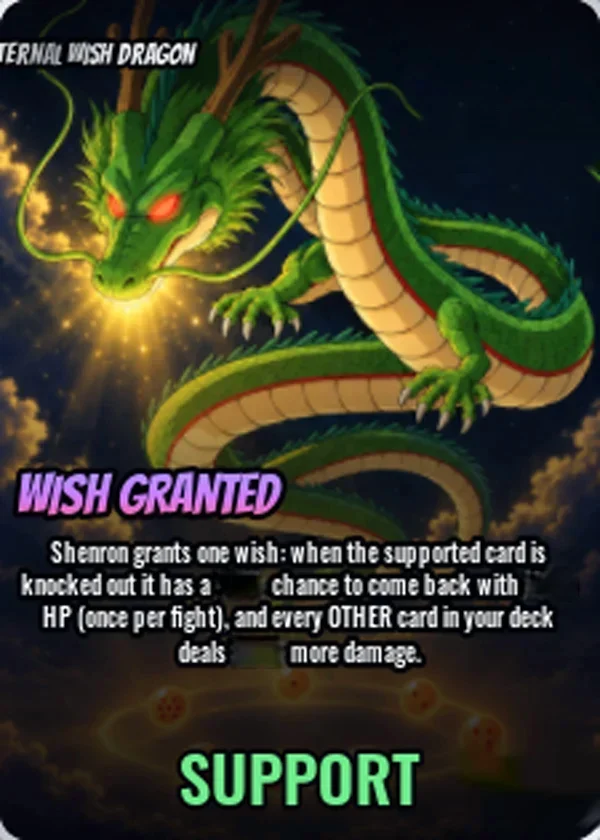
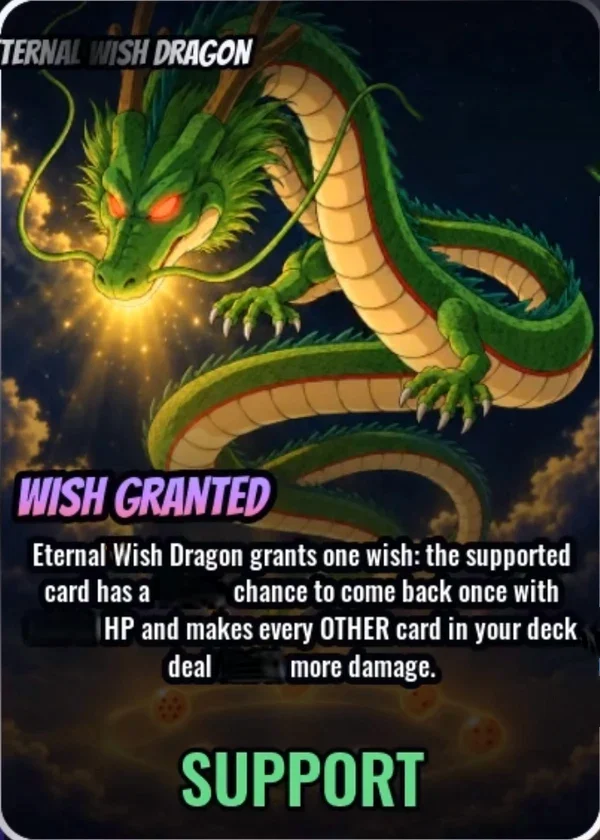
Support: game soft cap + sharp pictures for Hellsing Commander / Eternal Wish Dragon (?v=39)
- Recaptured both supports from the owner's full-card-view screenshots (~684px wide vs ~225px):
  new tools/recapture.py crops inside the frame, undoes the view's x1.14 stretch, removes the
  rarity pill / tap circle / sparkle stars (filled from other rarity shots or the old picture)
- Ability text updated to the game's current wording; support_nums.py re-found the numbers
- Values: the game softens high values (knee + room x (1 - e^(-(v - knee)/room)));
  chance 75/25, other 150/75, revive HP still capped at 100. Matches every in-game number:
  Hellsing 84/101/117/134/151/166/177/187, Eternal Secret 89.3, Chainsaw Pup Devil Cosmic 95.7
- Hellsing Normal 67 + effect.dp 0 (game shows whole numbers); Chainsaw Pup Devil back to 53

Claude-Session: https://claude.ai/code/session_01WmZ8X2XQiD1mRoJKfXMZgn

diff --git a/js/app.js b/js/app.js
@@ -105,10 +105,29 @@
     return (r > 200 || (r === 200 && q % 2) ? q + 1 : q) / 10;
   }
   const supVals = (s) => (s && s.effect && typeof s.effect === "object" && Array.isArray(s.effect.vals) ? s.effect.vals : []);
-  /* Tops out at 100% (owner 2026-10-29): a chance ("{n}% chance", "{n}% of (the) hits": dodges, counters) and the HP a card
-     comes back with ("with {n}% HP": revives · more than full HP does nothing) */
-  const supCapped = (s, i) => new RegExp(`\\{${i}\\}% (chance|of (the )?hits|HP\\b)`).test((s && s.effect && s.effect.desc) || "");
-  const supValAt = (s, i, rarity) => { const v = supAt(supVals(s)[i], rarity); return supCapped(s, i) ? Math.min(100, v) : v; };
+  /* Soft cap (the game, measured 2026-10-29 · PROGRESS §5.4): past a knee the game gives only part of the rest, closing in on
+     a ceiling: knee + room × (1 − e^(−(value − knee) / room)) on the unrounded value
+     · a chance ("{n}% chance", "{n}% of (the) hits": dodges, counters, revives): knee 75, room 25 → never 100
+       (Eternal Wish Dragon Secret 89.3 · Chainsaw Pup Devil Cosmic 95.7)
+     · the HP a card comes back with ("with {n}% HP"): straight, tops out at 100% (more than full HP does nothing)
+     · anything else: knee 150, room 75 (Hellsing Commander Ascended 166 · Godlike 177 · Godly 187)
+     effect.dp = decimals the game shows for that card (default 1 · Hellsing Commander 0: 84 / 101 / 117 …) */
+  const SOFT = { chance: [75, 25], other: [150, 75] };
+  const supKind = (s, i) => {
+    const d = (s && s.effect && s.effect.desc) || "";
+    return new RegExp(`\\{${i}\\}% (chance|of (the )?hits)`).test(d) ? "chance" : new RegExp(`\\{${i}\\}% HP\\b`).test(d) ? "hp" : "other";
+  };
+  const supValAt = (s, i, rarity) => {
+    const base = supVals(s)[i], k = supKind(s, i), dp = s && s.effect && s.effect.dp === 0 ? 0 : 1;
+    let v = Number(base) * supLevelMult(rarity);
+    if (!Number.isFinite(v) || v <= 0) return 0;
+    const plain = dp ? supAt(base, rarity) : Math.round(v);       // tenths: the game's even rounding of an exact …5
+    if (k === "hp") return Math.min(100, plain);
+    if (v <= SOFT[k][0]) return plain;
+    const [t, c] = SOFT[k];
+    v = t + c * (1 - Math.exp(-(v - t) / c));
+    return dp ? Math.round(v * 10) / 10 : Math.round(v);
+  };
   const supValue = (s, rarity) => supValAt(s, 0, rarity);  // the main value (vals[0]) at a rarity · 0 = none
   const supText = (s, text, rarity) => String(text || "").replace(/\{(\d)\}/g, (m, i) => (supVals(s)[+i] == null ? m : String(supValAt(s, +i, rarity))));
   const isSupport = (x) => !!(x && x.kind === "support");   // support objects get kind "support" when the data loads (boot)

diff --git a/index.html b/index.html
@@ -74,17 +74,17 @@
       fit(); addEventListener("resize", fit);
     })();
   </script>
-  <link rel="stylesheet" href="css/tokens.css?v=38">
-  <link rel="stylesheet" href="css/base.css?v=38">
-  <link rel="stylesheet" href="css/fx.css?v=38">
-  <link rel="stylesheet" href="css/cards.css?v=38">
-  <link rel="stylesheet" href="css/tier.css?v=38">
-  <link rel="stylesheet" href="css/deck.css?v=38">
-  <link rel="stylesheet" href="css/support.css?v=38">
-  <link rel="stylesheet" href="css/grade.css?v=38">
-  <link rel="stylesheet" href="css/tiermaker.css?v=38">
-  <link rel="stylesheet" href="css/detail.css?v=38">
-  <link rel="stylesheet" href="css/traits.css?v=38">
+  <link rel="stylesheet" href="css/tokens.css?v=39">
+  <link rel="stylesheet" href="css/base.css?v=39">
+  <link rel="stylesheet" href="css/fx.css?v=39">
+  <link rel="stylesheet" href="css/cards.css?v=39">
+  <link rel="stylesheet" href="css/tier.css?v=39">
+  <link rel="stylesheet" href="css/deck.css?v=39">
+  <link rel="stylesheet" href="css/support.css?v=39">
+  <link rel="stylesheet" href="css/grade.css?v=39">
+  <link rel="stylesheet" href="css/tiermaker.css?v=39">
+  <link rel="stylesheet" href="css/detail.css?v=39">
+  <link rel="stylesheet" href="css/traits.css?v=39">
 </head>
 <body>
   <!-- Icons, crest and ornaments: drawn for this site (no game art), used with <use href="#…"> -->
@@ -800,19 +800,19 @@
     </section>
   </div>
 
-  <script src="js/fx.js?v=38"></script>
-  <script src="js/app.js?v=38"></script>
-  <script src="js/teamscore.js?v=38"></script>
-  <script src="js/share.js?v=38"></script>
-  <script src="js/cards.js?v=38"></script>
-  <script src="js/detail.js?v=38"></script>
-  <script src="js/tier.js?v=38"></script>
-  <script src="js/deck.js?v=38"></script>
-  <script src="js/support.js?v=38"></script>
-  <script src="js/grade.js?v=38"></script>
-  <script src="js/traits.js?v=38"></script>
-  <script src="js/tiermaker.js?v=38"></script>
-  <script src="js/music.js?v=38"></script>
+  <script src="js/fx.js?v=39"></script>
+  <script src="js/app.js?v=39"></script>
+  <script src="js/teamscore.js?v=39"></script>
+  <script src="js/share.js?v=39"></script>
+  <script src="js/cards.js?v=39"></script>
+  <script src="js/detail.js?v=39"></script>
+  <script src="js/tier.js?v=39"></script>
+  <script src="js/deck.js?v=39"></script>
+  <script src="js/support.js?v=39"></script>
+  <script src="js/grade.js?v=39"></script>
+  <script src="js/traits.js?v=39"></script>
+  <script src="js/tiermaker.js?v=39"></script>
+  <script src="js/music.js?v=39"></script>
 </body>
 </html>
 

diff --git a/tools/recapture.py b/tools/recapture.py
@@ -1,0 +1,164 @@
+#!/usr/bin/env python3
+"""Recapture (PROGRESS §7 "โหมดแคปใหม่"): turn the owner's sharp screenshots of the game's full-screen card view
+into the 600×840 picture the web uses (images/support/<id>.webp + thumb/), with the game's overlays removed.
+
+layout "full" = phone screenshot 2400×1080 of the card opened full-screen (calibrated 2026-10-29 on Hellsing Commander
+7 rarities + Eternal Wish Dragon Secret):
+  · inner picture (inside the rarity frame) x 744–1428 · y 121–959 · the game stretches the card ×1.14 wide in this
+    view, so it is resized back to 600×840 (same geometry as the old Index pictures · SIFT check: x ×1.141 y ×0.998)
+  · rarity pill (SHINY … GODLY) top-right: y 222–305, right end at the frame, left end found by its ring + black stroke
+  · Android "show taps" blue circle (x ≥ 1395) → masked by colour
+  · gold sparkle stars of the game's effect → --star x0,y0,x1,y1 (screenshot px · yellow pixels inside the box)
+    · a star's grey glow on the dark text shadow → --patch x0,y0,x1,y1 (whole box painted the shadow's colour ·
+      keep it off the letters)
+Masked pixels are filled from the other screenshots of the same card (other rarities: same art, pill of a different
+width, stars elsewhere) and what no screenshot shows is inpainted (cv2.xphoto FSR_FAST). The name is coloured by
+rarity in the game → give the white-name shot first (Secret / Ascended / Godlike) · it is the base.
+A glyph of the game's text under a star: --mirror x0,y0,x1,y1 (its box in the base shot · W M A V … only) copies the
+mirror of its right half onto its left half. Overlay spots above the description block that no
+shot shows can come from the old picture (same geometry · --old <copy of the old .webp>) instead of a smeared inpaint.
+The {n}% numbers are NOT removed here: update effect.desc, then run tools/support_nums.py <id> --redo.
+
+needs: pip install opencv-contrib-python-headless
+usage: python3 tools/recapture.py <id> <base.jpg> [other.jpg …] [--star x0,y0,x1,y1 …] [--patch …] [--mirror x0,y0,x1,y1]
+                                   [--old old.webp] [--sheet out.png] [--dry]
+  --star / --patch boxes are for the base shot; add @N to give them to another shot (N = 1 for the first other shot)
+"""
+import os, sys
+import numpy as np
+from PIL import Image, ImageDraw
+
+ROOT = os.path.dirname(os.path.dirname(os.path.abspath(__file__)))
+W, H = 600, 840
+SHOT = (2400, 1080)
+INNER = (744, 121, 1428, 959)            # x0 y0 x1 y1 (exclusive) of the picture inside the frame
+PILL_Y, PILL_R, PILL_X1 = 263.5, 41.5, 1430
+
+
+def pill_left(L):
+    """left end of the rarity pill: the radius where the ring is bright just inside a dark stroke, along the left cap"""
+    th = np.linspace(np.pi / 2 + 0.25, 1.5 * np.pi - 0.25, 40)
+    def cap(e, rr):
+        xs, ys = e + PILL_R + rr * np.cos(th), PILL_Y - rr * np.sin(th)
+        return L[ys.round().astype(int), xs.round().astype(int)].mean()
+    best = max(((max(cap(e, PILL_R - d) for d in range(5, 16)) - min(cap(e, PILL_R - d) for d in range(4)), e)
+                for e in range(1080, 1280)))
+    if best[0] < 50:
+        raise SystemExit("rarity pill not found (score %.0f) · is this the full-card view at 2400×1080?" % best[0])
+    return best[1]
+
+
+def shot_mask(a, stars, patches=()):
+    """True = game overlay (pill / tap circle / star) in screenshot px"""
+    hh, ww = a.shape[:2]
+    L = a.mean(2)
+    yy, xx = np.mgrid[0:hh, 0:ww]
+    e = pill_left(L) - 6
+    r = PILL_R + 6
+    cx = e + r
+    m = ((xx >= cx) & (xx <= PILL_X1) & (abs(yy - PILL_Y) <= r)) | ((xx - cx) ** 2 + (yy - PILL_Y) ** 2 <= r * r)
+    r_, g_, b_ = a[..., 0], a[..., 1], a[..., 2]
+    tap = (xx >= 1395) & (b_ > 120) & (b_ - r_ > 70) & (b_ - g_ > 30)
+    for x0, y0, x1, y1 in stars:
+        box = np.zeros_like(m)
+        box[y0:y1, x0:x1] = True
+        m |= box & (r_ > 140) & (g_ > 90) & (r_ - b_ > 60)
+    for x0, y0, x1, y1 in patches:        # painted with the box's darkest colour (the text shadow), not inpainted
+        box = a[y0:y1, x0:x1].reshape(-1, 3)
+        a[y0:y1, x0:x1] = box[box.sum(1).argsort()[len(box) // 10]]
+        m[y0:y1, x0:x1] = False
+    return grow(m, 4) | grow(tap, 5), e
+
+
+def grow(m, n):
+    import cv2
+    return cv2.dilate(m.astype(np.uint8), np.ones((2 * n + 1, 2 * n + 1), np.uint8)) > 0
+
+
+def to_card(a):
+    x0, y0, x1, y1 = INNER
+    return np.asarray(Image.fromarray(a[y0:y1, x0:x1].astype(np.uint8)).resize((W, H), Image.LANCZOS)).astype(np.int32)
+
+
+def to_card_mask(m):
+    x0, y0, x1, y1 = INNER
+    return np.asarray(Image.fromarray((m[y0:y1, x0:x1] * 255).astype(np.uint8)).resize((W, H), Image.BILINEAR)) > 0
+
+
+def main():
+    import cv2
+    args = sys.argv[1:]
+    sheet = args[args.index("--sheet") + 1] if "--sheet" in args else None
+    dry = "--dry" in args
+    stars, mirrors, old, rest, k = {}, [], None, [], 0
+    while k < len(args):
+        if args[k] == "--mirror":
+            mirrors.append(tuple(int(v) for v in args[k + 1].split(","))); k += 2
+        elif args[k] == "--old":
+            old = args[k + 1]; k += 2
+        elif args[k] in ("--star", "--patch"):
+            box, _, n = args[k + 1].partition("@")
+            stars.setdefault((args[k], int(n or 0)), []).append(tuple(int(v) for v in box.split(",")))
+            k += 2
+        elif args[k] == "--sheet":
+            k += 2
+        elif args[k] == "--dry":
+            k += 1
+        else:
+            rest.append(args[k]); k += 1
+    sid, shots = rest[0], rest[1:]
+    if not shots:
+        raise SystemExit(__doc__)
+    kind = "support" if os.path.exists(os.path.join(ROOT, "images", "support", sid + ".webp")) else "cards"
+    if kind == "cards":
+        raise SystemExit("cards: HP / ATK spots of the full-card view are not calibrated yet (only Support) · step 0")
+    cards, masks = [], []
+    for n, p in enumerate(shots):
+        im = Image.open(p).convert("RGB")
+        if im.size != SHOT:
+            raise SystemExit("%s is %d×%d · layout 'full' is calibrated for %d×%d only" % ((p,) + im.size + SHOT))
+        a = np.asarray(im).astype(np.int32).copy()
+        m, e = shot_mask(a, stars.get(("--star", n), []), stars.get(("--patch", n), []))
+        for x0, y0, x1, y1 in (mirrors if n == 0 else []):
+            a, m = a.copy(), m.copy()
+            for x in range(x0, (x0 + x1) // 2):
+                xm = x0 + x1 - 1 - x
+                a[y0:y1, x] = a[y0:y1, xm]        # the whole left half (the star's white core is not in the mask)
+                m[y0:y1, x] = False
+        print("%s: pill from x %d" % (os.path.basename(p), e))
+        cards.append(to_card(a)); masks.append(to_card_mask(m))
+    out, hole = cards[0].copy(), masks[0].copy()
+    for c, m in zip(cards[1:], masks[1:]):
+        take = hole & ~m
+        out[take] = c[take]
+        hole &= m
+    print("filled from other shots: %d px" % (masks[0].sum() - hole.sum()))
+    if old:
+        top = np.zeros_like(hole); top[:int(H * 0.58)] = True    # above the description (its text may differ)
+        o = np.asarray(Image.open(old).convert("RGB").resize((W, H), Image.LANCZOS)).astype(np.int32)
+        take = hole & top
+        out[take] = o[take]
+        print("from the old picture: %d px" % take.sum())
+        hole &= ~top
+    print("inpainted: %d px" % hole.sum())
+    src = out.astype(np.uint8)
+    dst = np.zeros_like(src)
+    cv2.xphoto.inpaint(src, (255 - hole.astype(np.uint8) * 255), dst, cv2.xphoto.INPAINT_FSR_FAST)
+    res = Image.fromarray(dst)
+    if sheet:
+        before = Image.fromarray(cards[0].astype(np.uint8))
+        ov = np.asarray(before).copy()
+        ov[masks[0]] = (ov[masks[0]] * 0.4 + np.array([0, 255, 0]) * 0.6).astype(np.uint8)
+        ov[hole] = (ov[hole] * 0.4 + np.array([255, 0, 255]) * 0.6).astype(np.uint8)
+        s = Image.new("RGB", (W * 3, H))
+        s.paste(before, (0, 0)); s.paste(Image.fromarray(ov), (W, 0)); s.paste(res, (W * 2, 0))
+        ImageDraw.Draw(s).text((W + 8, 8), "green = filled from other shots · pink = inpainted", fill=(255, 255, 0))
+        s.save(sheet)
+    if not dry:
+        res.save(os.path.join(ROOT, "images", kind, sid + ".webp"), "WEBP", quality=88)
+        res.resize((300, 420), Image.LANCZOS).save(os.path.join(ROOT, "images", kind, "thumb", sid + ".webp"), "WEBP", quality=82)
+        print("saved images/%s/%s.webp + thumb/" % (kind, sid))
+
+
+if __name__ == "__main__":
+    main()

diff --git a/PROGRESS.md b/PROGRESS.md
@@ -27,18 +27,18 @@
 6. **ทุกหน้าต้องได้มาตรฐานเดียวกัน** ก่อนบอกว่าเสร็จ ต้องผ่าน **§4.1 Definition of Done** ทุกข้อ ถึงเจ้าของจะพิมพ์มาไม่ครบก็ต้องทำ (เช่น ต้องมีอนิเมชั่นทุกหน้า)
 7. **1 งาน = 1 แชทใหม่** ใช้ prompt สั้นจาก ▶ / §7 · (ใช้ **Claude Code** = Claude อ่านไฟล์จาก repo เอง + commit/เปิด pull request ให้ ข้อที่เหลือของกฎนี้ใช้กับแชท claude.ai) · **แนบ `PROGRESS.md` ไปในแชทเสมอ (หรืออัปเดตใน Project knowledge) · ห้ามให้ Claude อ่านไฟล์จากลิงก์ GitHub** (ได้ฉบับเก่าค้างแคช · เช็ค 2026-10-25 ได้ฉบับขั้น 2) · ไฟล์โค้ดที่ต้องใช้ให้ Claude บอกรายชื่อแล้วเจ้าของแนบให้ · เจ้าของต้องอัป `PROGRESS.md` (+ `HISTORY.md`) ขึ้น GitHub ทุกครั้งหลังจบงาน ไม่งั้นแชทถัดไปอ่านของเก่า · **อย่ารัน 2 แชทที่แก้ PROGRESS.md พร้อมกัน** (เคยทับกันมาแล้ว)
 8. ห้ามอ่านโค้ดทั้ง repo โดยไม่จำเป็น อ่านเฉพาะไฟล์ที่งานนั้นใช้
-9. **เลขเวอร์ชันท้ายไฟล์:** `index.html` โหลด CSS/JS แบบ `css/base.css?v=13` (กันมือถือใช้ไฟล์เก่าค้าง "Loading…") · แก้ CSS/JS ไฟล์ไหนก็ตาม → เปลี่ยน `?v=` **ทุกบรรทัด**เป็นเลขใหม่ (ตอนนี้ `38` · ครั้งถัดไป `39`) ไฟล์ใหม่ก็ใส่เลขด้วย แล้วบอกให้อัป `index.html` ด้วยทุกครั้ง · ไอคอนเว็บใช้เลขแยก (`?v=2`, §3)
+9. **เลขเวอร์ชันท้ายไฟล์:** `index.html` โหลด CSS/JS แบบ `css/base.css?v=13` (กันมือถือใช้ไฟล์เก่าค้าง "Loading…") · แก้ CSS/JS ไฟล์ไหนก็ตาม → เปลี่ยน `?v=` **ทุกบรรทัด**เป็นเลขใหม่ (ตอนนี้ `39` · ครั้งถัดไป `40`) ไฟล์ใหม่ก็ใส่เลขด้วย แล้วบอกให้อัป `index.html` ด้วยทุกครั้ง · ไอคอนเว็บใช้เลขแยก (`?v=2`, §3)
 10. **ห้ามก๊อปไฟล์จากเกม** (ไฟล์ฟอนต์, ไฟล์ UI/กรอบ/ป้าย, ไอคอน, โลโก้, เพลงประกอบ) — ติดลิขสิทธิ์ · กรอบ/ป้าย/ตัวเลขของการ์ดแบบในเกม **วาดเองด้วย CSS** (SVG/canvas ได้) ให้หน้าตาใกล้เคียงเกม + ใช้ **Google Font ที่คล้าย** (ตัวเลข Oswald · ป้าย Bangers) · รูปการ์ดใช้รูปที่ลบตัวเลขแล้ว (§3.5) · ภาพหน้าจอเกมใช้ดูอ้างอิงได้ แต่ไม่ใส่ในเว็บ · **ข้อยกเว้น (เจ้าของตัดสินใจเอง 2026-10-26 หลังรับรู้ความเสี่ยงลิขสิทธิ์):** ฉากหลังหน้าดูการ์ด W7 รอบ 2 ใช้รูปที่เจ้าของตัดจากฉากเปิดเกม Silver Palace (`images/silver/` · รวมรูปแนวตั้งสำหรับมือถือ `images/silver/portrait-src/` ที่เจ้าของส่งมา 2026-10-27 สำหรับ W9) · ถ้าเกมขอให้ลบ = ลบ `images/silver/` แล้วกลับไปใช้ฉาก W7 รอบ 1 จาก git (commit `ce91804` · รูป `images/scene/` ลบออกจาก repo แล้วตอนรอบ 2)
 11. ระบบเดิมห้ามเปลี่ยนโดยไม่ถาม: route, localStorage keys (§3.4), ลิงก์แชร์, ไฟล์สำรอง, เกรด, Tier Maker · หน้าใหม่ใช้ของกลางธีมใน §3.3 ห้ามใช้สีฟ้า/ม่วงแบบธีมเก่า
 
 ## ▶ ขั้นถัดไป (เจ้าของ copy ไปวางในแชทใหม่)
-**สถานะ (2026-10-29):** แผนขั้น 0–13 เสร็จครบ + W3 จอคอมเต็มจอ (`?v=18`) + W5 หน้า Traits ใหม่ (`?v=19`) + W6 หน้าดูการ์ด (`?v=20` + แก้รอบ 2 `?v=21`) + W4 ความเร็วหน้า Cards (`?v=22`) + W7 รอบ 1 (`?v=23`) + W7 รอบ 2 ฉากตามคลิปฉากเปิดเกม + จัดหน้าดูการ์ดใหม่ (`?v=24`) + **W7 รอบ 3 จอคอม (`?v=25`)** + W8 mockup วงล้อการ์ด (`mockup/card-wheel.html`) + **W8 วงล้อการ์ดในเว็บจริง (`?v=26` · merge แล้ว)** + แก้ฉากหน้าดูการ์ดในโหมด "desktop site" ของมือถือ (`?v=27`) + **W9 หน้าดูการ์ดใหม่ (`?v=28` · รอเจ้าของดู pull request)** + **ระดับ Godlike + Godly (9 ระดับ · `?v=29` · merge แล้ว)** + **เตรียมระบบการ์ดทั้งเกม (`?v=30` · รอเจ้าของดู pull request)** + **Support เหมือนการ์ด (`?v=31` · 2026-10-28 · merge แล้ว)** + **Deck: Support เท่าการ์ด + คลังแบ่งหน้า 30 ใบ (`?v=32` · รอเจ้าของดู pull request · ข้อด้านล่าง)** + **การ์ดทั้งเกม ② ครบ 500 ใบ** + **③ ส่วนการ์ด (2026-10-29 · รอเจ้าของดู pull request)** + **ปุ่มเปลี่ยนหน้าใหม่ ‹ [ช่องเลข] › + "Page x / y" · หน้า Grade / Traits แบ่งหน้าแบบหน้า Cards (`?v=38` · 2026-10-29 · รอเจ้าของดู pull request)** · **งานถัดไป = การ์ดทั้งเกม ③ ส่วน Support** (ด้านล่าง) แล้วค่อย Roll (§12) + **ระบบ Trait** (แท็บ Traits ปุ่มที่ 6 · `?v=17` · HISTORY §9 2026-10-25 Trait) · `data/cards.json` = การ์ด 400 ใบ · **จัดอันดับ 50 ใบแล้ว (③ · S 6 · A 10 · B 34 · ไม่มี Meta / SS · ข้อความ/field ละเอียดรอ ④)** · ใบอื่น unranked · `data/traits.json` = 13 Trait · `data/support.json` = 100 ใบ (ยัง unranked · รอ ③ Support) · `data/teams.json` = ทีมจริง 1 ทีม "Emperor Wall" (4 ใบ ช่อง 5 ว่าง · คะแนนทีมเหลือ 58 เพราะ 4 ใบนี้เป็น B กลางตารางแล้ว · ⑤ จัดทีมใหม่) · `team.bestSupport` ทุกใบว่างจนกว่าจะมี support
+**สถานะ (2026-10-29):** แผนขั้น 0–13 เสร็จครบ + W3 จอคอมเต็มจอ (`?v=18`) + W5 หน้า Traits ใหม่ (`?v=19`) + W6 หน้าดูการ์ด (`?v=20` + แก้รอบ 2 `?v=21`) + W4 ความเร็วหน้า Cards (`?v=22`) + W7 รอบ 1 (`?v=23`) + W7 รอบ 2 ฉากตามคลิปฉากเปิดเกม + จัดหน้าดูการ์ดใหม่ (`?v=24`) + **W7 รอบ 3 จอคอม (`?v=25`)** + W8 mockup วงล้อการ์ด (`mockup/card-wheel.html`) + **W8 วงล้อการ์ดในเว็บจริง (`?v=26` · merge แล้ว)** + แก้ฉากหน้าดูการ์ดในโหมด "desktop site" ของมือถือ (`?v=27`) + **W9 หน้าดูการ์ดใหม่ (`?v=28` · รอเจ้าของดู pull request)** + **ระดับ Godlike + Godly (9 ระดับ · `?v=29` · merge แล้ว)** + **เตรียมระบบการ์ดทั้งเกม (`?v=30` · รอเจ้าของดู pull request)** + **Support เหมือนการ์ด (`?v=31` · 2026-10-28 · merge แล้ว)** + **Deck: Support เท่าการ์ด + คลังแบ่งหน้า 30 ใบ (`?v=32` · รอเจ้าของดู pull request · ข้อด้านล่าง)** + **การ์ดทั้งเกม ② ครบ 500 ใบ** + **③ ส่วนการ์ด (2026-10-29 · รอเจ้าของดู pull request)** + **ปุ่มเปลี่ยนหน้าใหม่ ‹ [ช่องเลข] › + "Page x / y" · หน้า Grade / Traits แบ่งหน้าแบบหน้า Cards (`?v=38` · 2026-10-29 · รอเจ้าของดู pull request)** + **Support: soft cap แบบเกม + รูปชัด Hellsing Commander / Eternal Wish Dragon (`?v=39` · 2026-10-29 · รอเจ้าของดู pull request)** · **งานถัดไป = การ์ดทั้งเกม ③ ส่วน Support** (ด้านล่าง) แล้วค่อย Roll (§12) + **ระบบ Trait** (แท็บ Traits ปุ่มที่ 6 · `?v=17` · HISTORY §9 2026-10-25 Trait) · `data/cards.json` = การ์ด 400 ใบ · **จัดอันดับ 50 ใบแล้ว (③ · S 6 · A 10 · B 34 · ไม่มี Meta / SS · ข้อความ/field ละเอียดรอ ④)** · ใบอื่น unranked · `data/traits.json` = 13 Trait · `data/support.json` = 100 ใบ (ยัง unranked · รอ ③ Support) · `data/teams.json` = ทีมจริง 1 ทีม "Emperor Wall" (4 ใบ ช่อง 5 ว่าง · คะแนนทีมเหลือ 58 เพราะ 4 ใบนี้เป็น B กลางตารางแล้ว · ⑤ จัดทีมใหม่) · `team.bestSupport` ทุกใบว่างจนกว่าจะมี support
 
 **🗂 การ์ดทั้งเกม (เจ้าของสั่ง 2026-10-28 · สเปกใหม่แทนเกณฑ์ 480M ที่เคยสั่ง) · ทำตามลำดับ ① → ⑤:**
 - ① ✅ **เตรียมระบบ** (2026-10-28 · `?v=30` · HISTORY §9) · แตก zip → `inbox/` **451 รูป** (ลบใบซ้ำ Toad Sage 1 รูป · ลบ zip แล้ว) + `inbox/progress.json` · Tier = **Meta / SS / S / A / B** (§5.3) · `meta.json → rankTop: 50` · สูตร unranked ใน Deck (§10.5) · Support 9 ระดับ ค่า × (1 + 0.25 × ลำดับ) ปัดแบบเกม + ปุ่มระดับหน้า Support (§5.4) · `data/pool.json` (§5.2) · **⚠ เจ้าของเช็ก:** `4.zip` มีแค่ **1 รูป** (ไฟล์อื่นมี 50) รวมได้ 452 − ซ้ำ 1 = **451 ไม่ใช่ 500** → ถ้าตั้งใจให้มี 50 รูป อัป 4.zip ใหม่ (แตกใส่ `inbox/` แล้วเพิ่มแถว `pending` ใน progress.json · ให้ Claude ทำในรอบถัดไปได้)
 - ② **ใส่การ์ด (รอบ batch งาน A/C · §7 "โหมด batch")** · ใช้ prompt เดิม แชทใหม่ทุกรอบ · รอบละ ≤ 30 รูป (~16 รอบ) · Claude Code **Sonnet 5.5 / medium**: `repo Card_Ascension: ทำรอบถัดไป` · **ตัวนับ: ทำแล้ว 496 · ข้าม 0 · เหลือ 0 — ขั้น ② ครบแล้ว** (รอบ 18 เสร็จ 2026-10-29 = Shadow Monarch ที่เคยข้าม · เจ้าของส่งภาพจากมือถือที่เห็น HP ครบ · รวมในคลังตอนนี้ การ์ด 400 + Support 100 = **500 ใบ** · `inbox/` เหลือแค่ `progress.json` · ขั้น ③ เริ่มแล้ว) · merge pull request ของรอบก่อนแล้วค่อยเริ่มรอบใหม่
   - **รูปที่ข้าม** (`status: "skipped"` ใน progress.json + รายชื่อใน HISTORY §9 ของแต่ละรอบ): เจ้าของแคปใหม่ใส่ `inbox/` (เพิ่มแถว `pending`) หรือพิมพ์ค่าให้ → ทำเป็นรอบ batch ปกติ · **ต้องเคลียร์ให้หมดก่อนขั้น ③** (ไม่งั้นการ์ดแรงๆ ที่ข้ามไปจะไม่ได้ลุ้นเข้า 50)
-- ⏸ **แคปรูปชัดใหม่ (เจ้าของสั่ง 2026-10-29 · ทำ**ก่อน**ขั้น ③ ส่วน Support · เจ้าของมีการ์ด Support ที่ต้องอธิบายให้ Claude ก่อนจัดอันดับ):** เจ้าของแคปรูปใหม่ (หวัง ~500 ใบ · zip ละ 50) → ใส่ `inbox/` · **เริ่มด้วยรูปทดสอบ 3 ใบ** (Normal / ระดับอื่น / Support) ให้ Claude ปรับเทียบ (ขั้น 0 ของโหมดแคปใหม่) · จากนั้นแชทใหม่ Claude Code **Sonnet 5.5 / medium**: `repo Card_Ascension: ทำรอบแคปใหม่` (§7 "โหมดแคปใหม่" · รอบละ ≤ 25 รูป) · **ตัวนับ: ทำแล้ว 1 (Witch of Envy · ตัวอย่าง) · เหลือตามรูปที่เจ้าของส่ง** · ไม่มี `recapture.json` จนกว่ารอบแรก
+- ⏸ **แคปรูปชัดใหม่ (เจ้าของสั่ง 2026-10-29 · ทำ**ก่อน**ขั้น ③ ส่วน Support · เจ้าของมีการ์ด Support ที่ต้องอธิบายให้ Claude ก่อนจัดอันดับ):** เจ้าของแคปรูปใหม่ (หวัง ~500 ใบ · zip ละ 50) → ใส่ `inbox/` · **เริ่มด้วยรูปทดสอบ 3 ใบ** (Normal / ระดับอื่น / Support) ให้ Claude ปรับเทียบ (ขั้น 0 ของโหมดแคปใหม่) · จากนั้นแชทใหม่ Claude Code **Sonnet 5.5 / medium**: `repo Card_Ascension: ทำรอบแคปใหม่` (§7 "โหมดแคปใหม่" · รอบละ ≤ 25 รูป) · **ตัวนับ: ทำแล้ว 3 (Witch of Envy · ตัวอย่าง + Support Hellsing Commander, Eternal Wish Dragon จากมุมมองการ์ดเต็มจอ 2026-10-29 · ส่งในแชท ไม่ผ่าน inbox) · เหลือตามรูปที่เจ้าของส่ง** · ไม่มี `recapture.json` จนกว่ารอบแรก · **ขั้น 0 ผ่านแล้วเฉพาะ Support มุมมองเต็มจอ 2400×1080** (การ์ดที่มี HP/ATK ยังต้องปรับเทียบ)
 - ③ **คัด 50 ใบ + จัด Tier** (หลังใส่ครบ) · Claude Code **Opus 5.5 / high** · **การ์ด 1 แชท · Support 1 แชท** (ทำการ์ดก่อน) · **ส่วนการ์ด ✅ 2026-10-29** (HISTORY §9: อันดับ 50 ใบ + วิธี · จำลองด้วย `tools/matchup_sim.py` · §7 B ข้อ 8) · **ต่อไป = ส่วน Support**:
   - การ์ด: `repo Card_Ascension: อ่าน PROGRESS.md (กฎทำงาน + ▶ + §5 + §7 B + §8 + §10.5) แล้วทำ ▶ การ์ดทั้งเกม ③ ส่วนการ์ด`
   - Support: `repo Card_Ascension: อ่าน PROGRESS.md (กฎทำงาน + ▶ + §5 + §7 B + §8 + §10.5) แล้วทำ ▶ การ์ดทั้งเกม ③ ส่วน Support`
@@ -285,7 +285,7 @@
 - การ์ด Support = `.gc.gc--sup` (กรอบ/แสง/ป้ายระดับเหมือนการ์ด · ป้าย 1 IN X = โอกาส Normal · ไม่มี HP/ATK · คำ SUPPORT อยู่ในรูป)
 - **เลข % ของความสามารถถูกลบออกจากรูป** (เฉพาะตำแหน่ง `{0}` `{1}` … ใน `effect.desc` · เลขที่ไม่โตตามระดับ เช่น "20% of the HP", "3 stacks" ยังอยู่ในรูป) · `effect.pos` = `[{ i, x, y, w, h, cap, gl, gr }]` หน่วย cqw (% ของความกว้างการ์ด · y นับจากบน สูงสุด 140) · x y w h = กล่องตัวเลข + % · gl / gr = ช่องว่างซ้าย/ขวาถึงคำข้างๆ
 - เว็บเขียน `ค่า%` ที่ระดับนั้นทับตำแหน่งเดิม (`.gc__sv` / `.gc__svn` ใน fx.css): **Oswald 600** สี `--gc-sv` (**ทอง** `#ffd45c` · เจ้าของ 2026-10-29: ให้เห็นว่าค่าไหนเปลี่ยนตามระดับ) ขอบ `--gc-sv-line` (.15em) · **ตำแหน่งต้องคูณ zoom 1.012 จากกลางการ์ดเหมือนรูป** (`.gc__art img` scale 1.012 · `ART_ZOOM` ใน app.js · share.js ทำแบบเดียวกัน · ไม่คูณ = เลขบรรทัดล่างลอยสูงกว่าตัวหนังสือ) · ขนาด = ความสูงตัวเลข ÷ 0.78 · ขอบบนตัวเลข = `y − 0.13 × ขนาด` (ค่าใน `SV` ใน app.js · วัดการ์ด 100 ใบ 2026-10-29: ขอบบน/ล่างห่างเลขเดิม ≤ 0.2px ที่การ์ดกว้าง 600) · กึ่งกลางที่เดิม · ค่า Normal กว้างเท่าเลขเดิม · **เลขยาวขึ้น = บีบแนวนอน (`--sx`)** ให้พอดีกล่องเดิม + 30% ของช่องว่างแต่ละข้าง (`SV.gap` · เจ้าของ 2026-10-29: เลขต้องไม่ติดตัวหนังสือ · เดิม 70%) (ไม่จัดบรรทัดใหม่) · เปลี่ยนระดับ = แฟลช + นับ 650ms · reduced = เปลี่ยนทันที · ไม่มีรูป = ไม่เขียน
-- ค่า = §5.4 (`supAt`: ค่า Normal × (1 + 0.25 × ลำดับ) ปัด 1 ตำแหน่ง ลงท้าย 5 พอดีไปหาเลขคู่)
+- ค่า = §5.4 (`supValAt`: ค่า Normal × (1 + 0.25 × ลำดับ) ปัด 1 ตำแหน่ง ลงท้าย 5 พอดีไปหาเลขคู่ · เกินจุดหักลดทอนแบบเกม (soft cap))
 - **Support ใหม่ทุกใบต้องรัน `tools/support_nums.py`** (§7 C ข้อ 5) ไม่งั้นรูปยังมีเลขเดิมและเว็บไม่เขียนค่า
 
 **3.5.3 ไฟล์ที่เกี่ยว:** `js/app.js` (renderCard / setCardRarity / setCardNums / fitCard / shortNum), `css/fx.css` (`.gc` ทุกระดับ), `css/tokens.css` (`--gc-*`, `--slab-*`), `js/grade.js` + `css/grade.css` (เคส), `js/detail.js` (การ์ดในฉาก + `mountSlabs`), `js/share.js` (`drawGameCard` / `gcSpec`), `index.html` (Oswald + Bangers)
@@ -422,7 +422,7 @@ const RARITY_MULTIPLIERS = {
   - `effect` = `{ "name": "Automail Tune-Up", "desc": "Winry tunes up the automail: the supported card gets {0}% more max HP.", "vals": [5], "type": "max-hp" }` (ข้อความธรรมดาก็ยังได้ แต่จะไม่มีค่าตามระดับ) · **`{0}` `{1}` … = ตำแหน่งตัวเลขที่โตตามระดับ** ใส่ค่า **Normal** ใน `vals` ตามลำดับ (`vals[0]` = ค่าหลักที่ใช้คิดคะแนน) · ตัวเลขที่ไม่ใช่ค่าพลัง (ทุก**ครั้งที่ 3**, **3** stacks, **2** turns, 1 in N) เขียนตรงๆ ไม่ใส่ `{}` · `type` = ชนิดค่าหลัก ตัวพิมพ์เล็ก ใช้คำเดิมทั้งคลัง (เช่น `max-hp` `atk` `dmg` `heal` `dodge` `crit` `damage-reduction` `poison` `burn` `shield` `revive` `lifesteal` · ชนิดใหม่เพิ่มได้) ใช้เทียบ support ชนิดเดียวกันใน §10.5 · `odds` = ตัวเลข N ของ "1 in N" ที่ระดับ Normal (เว็บคูณตัวคูณโอกาสของระดับเหมือนการ์ด §5.1 · `oddsAt()`) · `image` ว่างได้ (เว็บวาดรูปแทน) · `mock: true` = ป้าย Sample
   - **`effect.pos`** (2026-10-28 · `tools/support_nums.py` ใส่ให้ · ห้ามเขียนเอง) = ตำแหน่งเลข `{n}%` บนรูป §3.5.5 · `[]` = ไม่มีเลขที่โตตามระดับ
   - **ค่าตามระดับ (เจ้าของสั่ง 2026-10-28 · ตรวจตรง 2 ใบ: Automail Mechanic 5%, Gate Healer 0.9%):** ค่าระดับ X = ค่า Normal × (1 + 0.25 × ลำดับระดับ) (Normal 0 · Shiny 1 · Rainbow 2 · Secret 3 · Divine 4 · Cosmic 5 · Ascended 6 · Godlike 7 · Godly 8 = ×3) · เกมปัดทศนิยม 1 ตำแหน่ง **ค่าที่ลงท้าย 5 พอดีปัดไปหาเลขคู่** (6.25 → 6.2 · 8.75 → 8.8) · 5% = 5 / 6.2 / 7.5 / 8.8 / 10 / 11.2 / 12.5 / 13.8 / 15 · 0.9% = 0.9 / 1.1 / 1.4 / 1.6 / 1.8 / 2 / 2.2 / 2.5 / 2.7 · โค้ด `supAt()` ใน app.js (เลขจำนวนเต็ม ไม่มีเศษทศนิยมเพี้ยน) · หน้า Support แสดงค่าตามปุ่มระดับ (ระดับเดียวกับทั้งเว็บ) · ถ้ารูปเป็นระดับอื่น ให้หาร (1 + 0.25 × ลำดับ) กลับเป็นค่า Normal แล้วเช็กว่าปัดกลับได้ตรงทุกตัว
-  - **ตันที่ 100% (เจ้าของ 2026-10-29):** `{n}` ที่ตามด้วย `% chance` / `% of (the) hits` (หลบ / สวนกลับ) / `% HP` (HP ตอนคืนชีพ · เกิน 100 ไม่มีประโยชน์) ไม่เกิน 100 · โค้ด `supValAt(s, i, rarity)` ใน app.js (ทุกที่ที่แสดงค่า Support ต้องใช้ตัวนี้ ไม่ใช้ `supAt` ตรงๆ) · **HP ตอนคืนชีพโตตามระดับ** (Chainsaw Pup Devil 40% → Cosmic 90% ตรงเกม) = เป็น `{n}` ด้วย (4 ใบ revive) · **`vals` ทศนิยม 2 ตำแหน่งได้** เมื่อหาค่า Normal จากแคประดับอื่นแล้ว 1 ตำแหน่งปัดกลับไม่ตรง (Hellsing Commander 62.33 ← Godly 187% · Chainsaw Pup Devil 42.53 ← Cosmic 95.7%) · **ค้าง:** Hat and Clogs Godlike ในเกม 9?.8% (ดาวบังเลข) แต่เว็บ 100% จาก Normal 48% → รอแคปเลขชัด
+  - **Soft cap แบบเกม (เจ้าของเลือก 2026-10-29 · แทน "ตันที่ 100%"):** เกินจุดหักเกมให้แค่บางส่วน = `จุดหัก + ห้อง × (1 − e^(−(ค่า − จุดหัก) / ห้อง))` คิดจากค่าก่อนปัด · **โอกาส** (`{n}% chance` / `{n}% of (the) hits` · หลบ / สวนกลับ / คืนชีพ): จุดหัก 75 ห้อง 25 (ไม่ถึง 100 · ตรงเกม Eternal Wish Dragon Secret 89.3 · Chainsaw Pup Devil Cosmic 95.7) · **HP ตอนคืนชีพ** (`{n}% HP`): เส้นตรง ตันที่ 100 · **ค่าอื่น**: จุดหัก 150 ห้อง 75 (ตรง Hellsing Commander ครบ 8 ระดับ: 84 / 101 / 117 / 134 / 151 / 166 / 177 / 187 · ยังเช็กจากเกมได้ใบเดียว) · โค้ด `supValAt(s, i, rarity)` + `SOFT` ใน app.js (ทุกที่ที่แสดงค่า Support ต้องใช้ตัวนี้ ไม่ใช้ `supAt` ตรงๆ) · **`effect.dp`** = ทศนิยมที่เกมแสดงของใบนั้น (ไม่ใส่ = 1 · `0` = จำนวนเต็มปัดครึ่งขึ้น: Hellsing Commander) · **หาค่า Normal จากแคประดับอื่น:** ถ้าค่าในรูปเกินจุดหัก ห้ามหารตรงๆ → ใช้ระดับที่ต่ำกว่าจุดหัก หรือแก้สมการกลับ · **HP ตอนคืนชีพโตตามระดับ** (Chainsaw Pup Devil 40% → Cosmic 90% ตรงเกม) = เป็น `{n}` ด้วย (4 ใบ revive) · **ค้าง:** Hat and Clogs Godlike ในเกม 9?.8% (ดาวบังเลข) เว็บ 97.4% จาก Normal 48% → รอแคปเลขชัด
   - **จัด Tier Support โดยวิเคราะห์ที่ระดับ Godly** (ค่า ×3) · `scores` / `tier` ไม่เปลี่ยนตามระดับ
   - `scores.value` = effect×0.4 + reliability×0.2 + flexibility×0.2 + synergy×0.2 (0–100, ทศนิยมได้ เว็บแสดง 1 ตำแหน่ง) · `tier` ตามเกณฑ์เดียวกับการ์ด (§5.3)
   - **Unranked:** `scores.value` เป็น 0 หรือ `tier` ว่าง = ไม่ได้อยู่ใน 50 อันดับ หรือยังไม่ได้ให้คะแนน (งานประจำ C ใส่แบบนี้) → ขึ้นท้ายรายการ ป้าย Unranked ไม่มีอันดับ · คะแนนใน Deck คิดจาก `vals[0]` ตามระดับ (§10.5)
@@ -489,6 +489,7 @@ repo Card_Ascension: ทำรอบแคปใหม่
 (`CLAUDE.md` บอกว่า "ทำรอบแคปใหม่" = ทำตามหัวข้อนี้ · ถ้าไม่ได้ผล ใช้ `repo Card_Ascension: อ่าน PROGRESS.md (กฎทำงาน + ▶ + §3.5.1 + §3.5.5 + §5.1 + §5.2 + §5.4 + §7 C + §7 "โหมดแคปใหม่") แล้วทำรอบแคปใหม่`)
 - **ที่มา:** รูปเดิมจากหน้า Index กว้างแค่ ~225px (ข้อความคำอธิบายแตก) · แคปใหม่จากมือถือ/คอมกว้าง ~460px (หน้า Index) ถึง ~690px (มุมมองการ์ดเต็มจอ) · AI ขยาย **ห้ามใช้** (ตัวหนังสือเล็กเพี้ยน · ทดลอง HISTORY §9 2026-10-29) · ใบตัวอย่าง = Witch of Envy, Shadow Monarch
 - **รูปเข้า `inbox/`** (เจ้าของแตก zip ใส่เอง หรือแจ้งให้ Claude แตก `*.zip` ที่ root) · ตัวนับ = `inbox/recapture.json` `{ batchSize: 25, files: [{ file, status: pending|done|skipped, kind, id, note }] }` · ยังไม่มีไฟล์นี้ = สร้างเองจากรูปใน `inbox/` (ทุกรูปที่ยังไม่อยู่ใน `progress.json`) · **อย่าปนกับ `progress.json`** (ของรอบ batch ใส่การ์ดใหม่ · ปิดแล้ว)
+- **มุมมองการ์ดเต็มจอ (มือถือ 2400×1080 · ปรับเทียบแล้วสำหรับ Support 2026-10-29 · `tools/recapture.py`):** รูปข้างในกรอบ x 744–1428 · y 121–959 (เกมยืดการ์ดกว้าง ×1.14 ในมุมมองนี้ → ย่อกลับเป็น 600×840 = เรขาคณิตเดียวกับรูปเดิม · เช็ก SIFT แล้ว) · ป้ายระดับ (pill) y 222–305 หาขอบซ้ายเอง · วงฟ้า "show taps" ของ Android ลบตามสี · ดาวระยิบของเกม = `--star x0,y0,x1,y1` (พิกัดรูปแคป) · ส่งรูประดับอื่นของใบเดียวกันมาด้วยได้ = เติมส่วนที่ป้าย/ดาวบังจากรูปอื่น (ภาพเดียวกัน ป้ายกว้างไม่เท่ากัน) · ส่วนที่ไม่มีรูปไหนเห็นและอยู่เหนือคำอธิบาย = `--old <สำเนารูปเดิม>` (ดีกว่า inpaint ที่เลอะบนลาย) · ชื่อบนรูปเป็นสีตามระดับ → **รูปแรก = ระดับที่ชื่อสีขาว** (Secret / Ascended / Godlike) · ตัวอักษรที่ดาวบัง: `--patch` (ทาสีเงาตัวหนังสือ) + `--mirror` (ตัวสมมาตร W M A V) · แล้วแก้ `effect.desc` → `tools/support_nums.py <id> --redo --sheet …` · คำสั่งจริงของ 2 ใบแรก: HISTORY §9 2026-10-29 "soft cap"
 - **ขั้นที่ 0 (รอบแรกเท่านั้น · ปรับเทียบ):** รูปมุมมองใหม่ยังไม่เคยตั้งค่า → ดูรูปตัวอย่าง 3 ใบ (Normal / ระดับอื่น / Support) · หา x y ของกรอบการ์ด + ตำแหน่ง HP / ป้ายโอกาส / ป้ายระดับ / ATK / ×N · ลบแล้วดูผลกับเจ้าของก่อน (**หยุดถามถ้าไม่เนียน**) · จดตำแหน่ง + วิธีลงใน §7 ข้อนี้ + `tools/` (ทำสคริปต์ `tools/recapture.py` เก็บ mask) · ห้ามทำทั้งรอบถ้ายังไม่ผ่านขั้นนี้
 - **ต่อใบ:** (1) **ดูรูปเต็มทุกใบด้วยตา** แล้วอ่านชื่อ → หา `id` ในคลัง (`cards.json` / `support.json` · ชื่อไม่เจอ = ใบใหม่ → ใส่เป็นใบใหม่ตามโหมด batch + `round` ใหม่ · หรือ `skipped` ถ้าไม่แน่ใจ) (2) **เช็กค่า:** ATK / HP ในรูป ÷ ตัวคูณระดับ (§5.1 · ระดับดูจากป้าย/ชื่อสี) ต้องตรง `base` (ยอมคลาด ±0.1% จากการปัดของเกม · ใส่ `exact` ถ้าระดับไม่ใช่ Normal และเลขต่างจากค่าคำนวณ) · **ไม่ตรง = ห้ามเขียนทับ** → `skipped` + note ทั้ง 2 ค่า (เกมอาจปรับสถานะ · ให้เจ้าของตัดสิน) (3) **ข้อความความสามารถ:** อ่านจากรูป/ฝั่งขวาแล้วเทียบ `passive.desc` (การ์ด) / `effect.desc` (Support) · ต่าง = แก้ให้ตรงเกม (เกมแก้ชื่อตัวละครแล้ว เช่น Satella → Witch of Envy) · **ตัวเลขในข้อความเปลี่ยน** = จดใน HISTORY §9 · ถ้าใบนั้นมี `tier` (50 อันดับ) → รายงานเจ้าของว่า**ควรทบทวน Tier** (ห้ามแก้ `scores` / `tier` เอง) · Support: ตัวเลข `{n}` + `vals` ต้องเทียบด้วย (เปลี่ยน = ถามเจ้าของ ห้ามเดา) (4) **ตัดรูป + ลบ:** ตามที่ตั้งในขั้น 0 → 600×840 · ลบ HP / ป้าย 1 IN X / ป้ายระดับ / ATK / ×N / ★ / ไอคอนเพชรของเกม ด้วย `cv2.xphoto.inpaint` FSR_FAST (§7 batch ข้อ 4) · การ์ดระดับอื่น: **ชื่อบนรูปเป็นสีตามระดับ** (แปลงกลับไม่ได้ → ยอมรับ + จดใน note) · ตัดข้างในกรอบระดับ · webp q88 + thumb 300×420 q82 · เขียนทับ `images/cards/<id>.webp` + `thumb/` (Support → `images/support/`) (5) **Support:** รัน `tools/support_nums.py <id> … --redo --sheet …` ให้ครบ (รูปใหม่ยังมีเลข `{n}%` · `--redo` ลบ `effect.pos` เดิมแล้วหาใหม่) แล้ว**ดูภาพ sheet ด้วยตา** (§7 C)
 - **ปิดรอบ:** ลบรูปที่ `done` ออกจาก `inbox/` · `recapture.json` อัปเดต · เช็ก JSON parse + เปิดเว็บใน Chromium ดูหน้า Cards / Support / `#card/<id>` ของใบที่เปลี่ยน ไม่มี error · **ไม่เปลี่ยน `?v=`** (ไม่แก้ CSS/JS) · ▶ ข้อ "แคปรูปชัด" อัปเดตตัวนับ · HISTORY §9 ต่อท้าย 1 รายการ: รอบที่ · กี่ใบ · ข้ามกี่ใบ + เหตุผล · **รายชื่อใบที่ข้อความ/ตัวเลขเปลี่ยน** (+ ใบที่ควรทบทวน Tier) · commit แล้วเปิด pull request

diff --git a/HISTORY.md b/HISTORY.md
@@ -1405,3 +1405,11 @@
   - บรรทัดนับ Cards / Support เอา "· page x of y" ออก (ย้ายไปใต้ปุ่มแล้ว)
   - ทดสอบ Chromium 390×844 + 1280×800 ทั้ง 4 หน้า: › → หน้า 2 · พิมพ์ 999 + Enter → หน้าสุดท้าย (Cards/Grade/Traits 14/14 = 10 ใบ · Support 4/4) · พิมพ์ 2 แล้วออกจากช่อง → หน้า 2 · ไม่มี scroll แนวนอน · Grade หน้า 3 → เปิดเคส → Back = หน้า 3 ใบเดิม · Traits หน้า 5 → เลือกการ์ด → Back = หน้า 5 การ์ดยังถูกเลือก · ค้นหา "sword" = Page 1 / 1 (17 ใบ) · ค้นหาไม่เจอ = ซ่อนปุ่ม · console ไม่มี error (มีแค่ 404 `audio/bgm.mp3` ที่ยังไม่มีไฟล์อยู่แล้ว)
   - **ไฟล์:** `js/app.js` · `js/cards.js` · `js/support.js` · `js/grade.js` · `js/traits.js` · `css/cards.css` · `index.html` · `PROGRESS.md` · `HISTORY.md`
+- 2026-10-29: **Support: soft cap แบบเกม + รูปชัด Hellsing Commander / Eternal Wish Dragon** (`?v=39`) · เจ้าของส่งแคปมุมมองการ์ดเต็มจอ (มือถือ 2400×1080) Hellsing Commander 7 ระดับ (Shiny → Godlike) + Eternal Wish Dragon Secret · "แก้ให้ตรงเกม + ชัด"
+  - **รูป:** การ์ดในมุมมองเต็มจอกว้าง ~684px (เดิม ~225px) · เกมยืดการ์ดกว้าง ×1.14 ในมุมมองนี้ (SIFT เทียบรูปเดิม: x ×1.141 · y ×0.998) → ตัดข้างในกรอบ x 744–1428 y 121–959 แล้วย่อเป็น 600×840 · ป้ายระดับหาขอบซ้ายเอง (วงแหวนสว่างในเส้นดำ · ตรงทั้ง 8 รูป) · วงฟ้า show taps ลบตามสี · Hellsing: ฐาน Godlike (ชื่อสีขาว) + เติมใต้ป้ายจาก Divine / Shiny / Secret (ป้ายแคบกว่า) · Eternal: ดาว 4 ดวง (ดวงหนึ่งทับตัว W ของ "Wish" → ทาสีเงา + กลับด้านครึ่งขวาของ W) · ส่วนใต้ป้ายที่ไม่มีรูปไหนเห็น = จากรูปเดิม (inpaint บนตัวมังกรเลอะเป็นก้อนเขียว) · เขียนเครื่องมือ `tools/recapture.py` (PROGRESS §7 โหมดแคปใหม่)
+  - **ข้อความตามเกม:** Hellsing "Integra's order: Search and Destroy! …" → "Hellsing Commander's order: the supported card does {0}% more damage with its first hit on each new enemy." · Eternal "Shenron grants one wish: when … knocked out … (once per fight), and every OTHER …" → "Eternal Wish Dragon grants one wish: the supported card has a {0}% chance to come back once with {2}% HP and makes every OTHER card in your deck deal {1}% more damage." · `support_nums.py --redo` หาเลขใหม่ครบ (sheet ดูด้วยตาแล้ว)
+  - **ตัวเลขไม่โตแบบเส้นตรง:** Hellsing ในเกม 84 / 101 / 117 / 134 / 151 / 166 / 177 / 187 = Normal 67 ตรง Shiny–Cosmic แต่เกิน 150 ลดทอน · Eternal Secret โอกาส 89.3 (55 × 1.75 = 96.25) · หาสูตร: `จุดหัก + ห้อง × (1 − e^(−ส่วนเกิน/ห้อง))` · โอกาส 75 / 25 ตรงเป๊ะทั้ง Eternal 89.3 และ Chainsaw Pup Devil 95.7 จาก Normal เดิม 53 (ช่วงที่เข้าได้ทั้ง 2 จุดมีแค่ 74.8–75.2 / 24.6–25.3) · ค่าอื่น 150 / 75 ตรง Hellsing ครบ (ช่วงที่เข้าได้ 149–151.5 / 67.5–79.5) · Hellsing แสดงจำนวนเต็มในเกม (83.75 → 84) → `effect.dp: 0` · **เจ้าของเลือกใส่สูตร** → `SOFT` + `supValAt` ใน app.js (เลิกใช้ `supCapped`) · `vals`: Hellsing 62.33 → 67 · Chainsaw Pup Devil 42.53 → 53 (ค่าเดิมถูกแล้ว)
+  - **Support ที่ค่า Godly เปลี่ยนจากสูตรนี้ (ยังไม่ได้เช็กกับเกม):** โอกาส > 75: Salt Splash Mentor 120 → 95.9 (เดิมตัน 100) · Shadow Strategist / Eternal Wish Dragon 99.3 · Useless Goddess 94.1 · Hat and Clogs 98.4 · Chainsaw Pup Devil 99.1 · Flower Healer Captain / Immortal Witch 92.5 · Angel Attendant 87 → 84.5 · ค่าอื่น > 150: Fate Thread Witch 153 → 152.9 · Pacifier Prince / Hero of Legend 168 → 166 · Cherry Blossom Medic 159 → 158.5 · คะแนนทีมใน Deck (`supValue`) ใช้ค่าใหม่ด้วย · **ค้าง:** Hat and Clogs Godlike เว็บ 97.4 เกม 9?.8 (ดาวบัง)
+  - **ทดสอบ (Chromium 390×844 + 1280×800):** `supValAt` ทุกระดับ: Hellsing 67 / 84 / 101 / 117 / 134 / 151 / 166 / 177 / 187 = เกมทุกตัว · Eternal Secret 89.3 / 13.1 / 87.5 = เกม · Chainsaw Pup Devil Cosmic 95.7 / 90 = เกม · `#cards` `#support` `#card/<3 ใบ>` `#deck` `#tier` ไม่มี JS error (404 เดียว = `audio/bgm.mp3`) · ไม่มี scroll แนวนอน · `node --check` ผ่าน · JSON parse ได้
+  - **คำสั่งที่ใช้** (`U` = โฟลเดอร์รูปแคป · `old/` = สำเนารูปเดิมก่อนเขียนทับ): `tools/recapture.py hellsing-commander $U/godlike.jpg $U/divine.jpg $U/shiny.jpg $U/secret.jpg --old old/hellsing-commander.webp` · `tools/recapture.py eternal-wish-dragon $U/secret.jpg --star 1228,586,1256,614 --star 846,826,888,868 --star 1372,793,1420,837 --star 862,655,890,682 --patch 866,656,873,682 --mirror 872,655,895,688 --old old/eternal-wish-dragon.webp` · `tools/support_nums.py hellsing-commander eternal-wish-dragon --redo`
+  - **ไฟล์:** `js/app.js` · `index.html` · `data/support.json` · `images/support/` + `thumb/` (hellsing-commander, eternal-wish-dragon) · ใหม่ `tools/recapture.py` · `PROGRESS.md` · `HISTORY.md`
